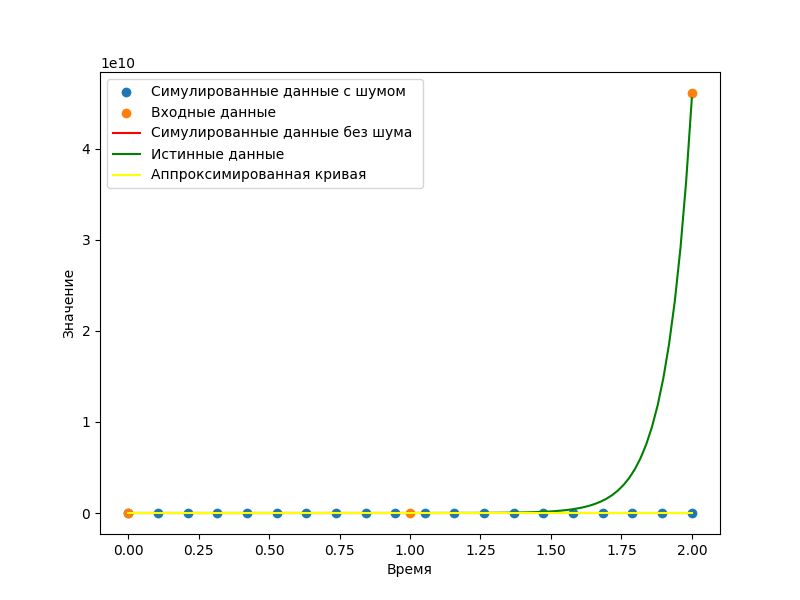
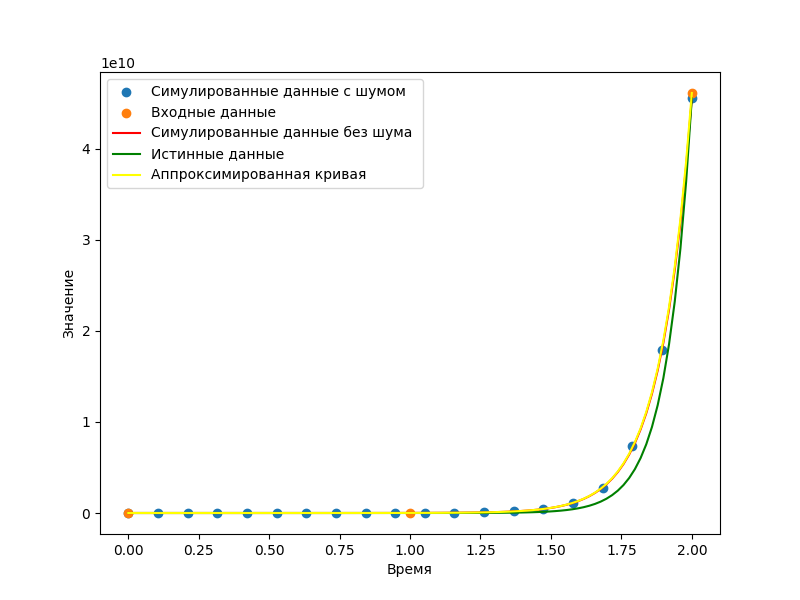
Add changes

diff --git a/README.md b/README.md
@@ -29,7 +29,7 @@ Output:
 ![output](output2.png)
 True parameters: [-1.5, 10]
 
-Fitted Parameters with noise: [-1.46345367  9.85688582]
+Fitted Parameters with noise: [-1.4634539   9.85688725]
 
 Fitted Parameters without noise:[-1.5 10. ]
 
@@ -39,7 +39,7 @@ Output:
 ![output](output3.png)
 True parameters: [-1.5, 10]
 
-Fitted Parameters with noise: [-1.56607608 10.35830918]
+Fitted Parameters with noise: [-1.56607609 10.35830923]
 
 Fitted Parameters without noise:[-1.5 10. ]
 
@@ -59,7 +59,7 @@ Output:
 ![output](output5.png)
 True parameters: [2.5, -1]
 
-Fitted Parameters with noise: [ 2.50747359 -1.0136943 ]
+Fitted Parameters with noise: [ 2.50747361 -1.01369438]
 
 Fitted Parameters without noise:[ 2.5 -1. ]
 
@@ -69,7 +69,7 @@ Output:
 ![output](output6.png)
 True parameters: [2.5, -1]
 
-Fitted Parameters with noise: [ 2.48794897 -0.97420763]
+Fitted Parameters with noise: [ 2.48794889 -0.97420738]
 
 Fitted Parameters without noise:[ 2.5 -1. ]
 
@@ -79,9 +79,9 @@ Output:
 ![output](output7.png)
 True parameters: [11.12, 100]
 
-Fitted Parameters with noise: [ 2.35907555 19.92601179]
+Fitted Parameters with noise: [8.81192161e+00 9.00937408e+03]
 
-Fitted Parameters without noise:[ 2.3590581  19.92587036]
+Fitted Parameters without noise:[8.81159778e+00 8.89948827e+03]
 
 # Test 8
 Output:
@@ -89,9 +89,9 @@ Output:
 ![output](output8.png)
 True parameters: [11.12, 100]
 
-Fitted Parameters with noise: [ 11.22801583 125.15203587]
+Fitted Parameters with noise: [11.20820053 83.69910032]
 
-Fitted Parameters without noise:[ 11.22852984 125.14511971]
+Fitted Parameters without noise:[ 11.12 100.  ]
 
 # Test 9
 Output:
@@ -99,6 +99,6 @@ Output:
 ![output](output9.png)
 True parameters: [11.12, 100]
 
-Fitted Parameters with noise: [ 10.803249   187.16200569]
+Fitted Parameters with noise: [ 10.80327047 187.15399477]
 
 Fitted Parameters without noise:[ 11.12 100.  ]
